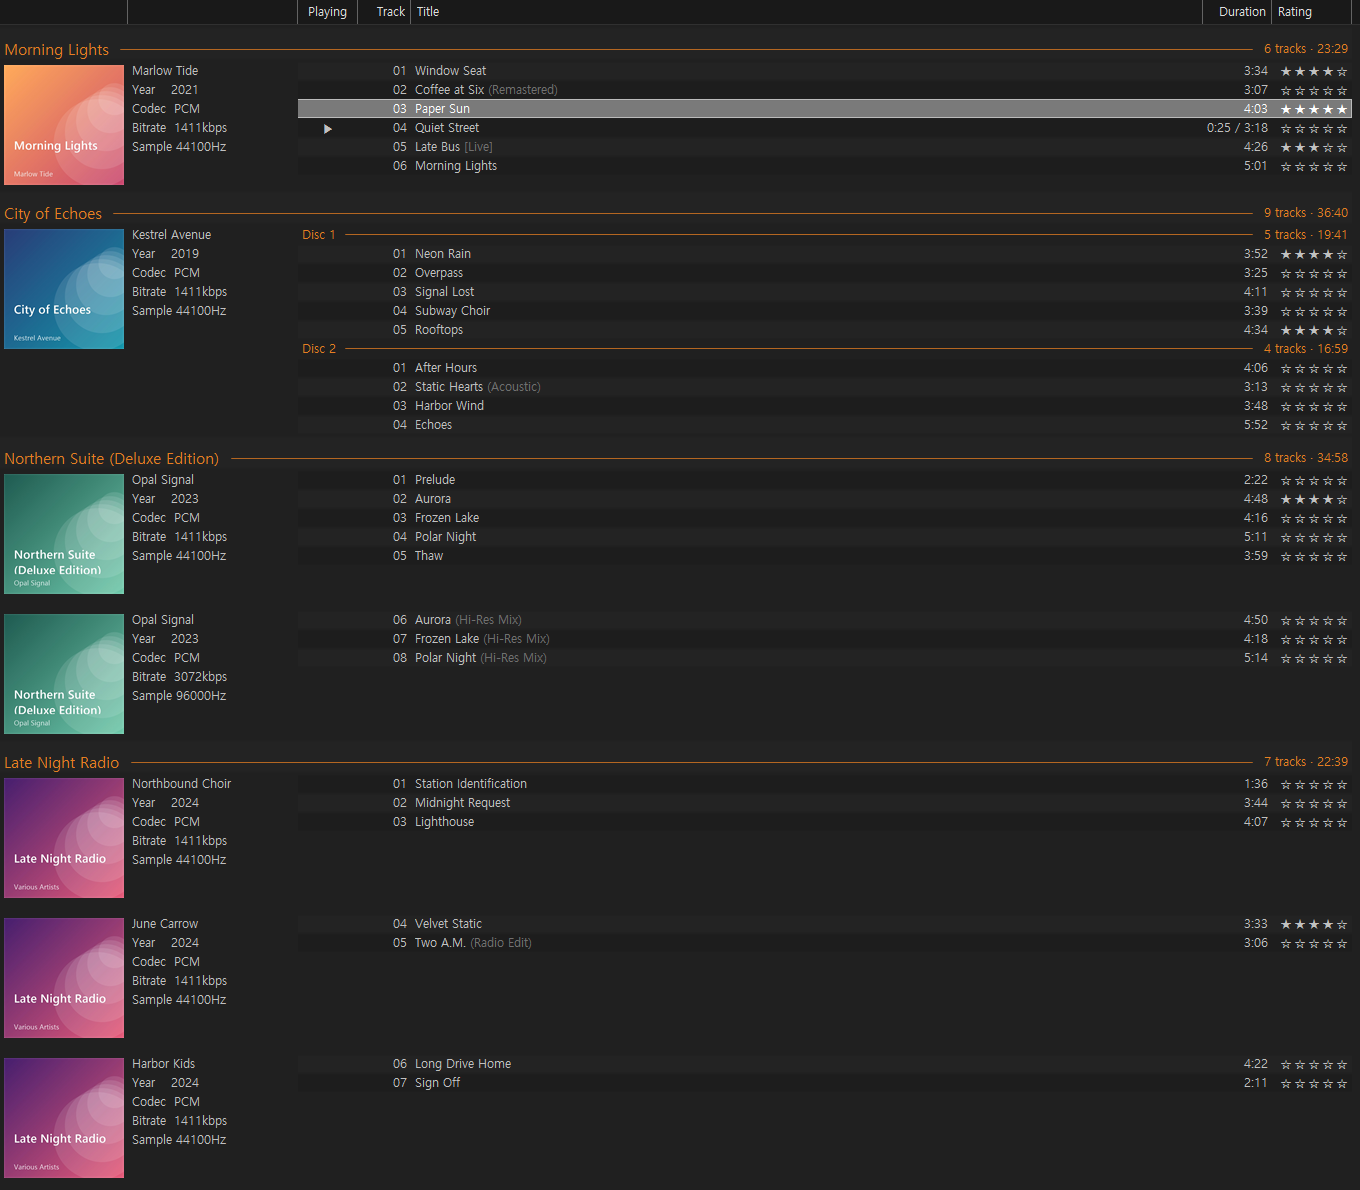
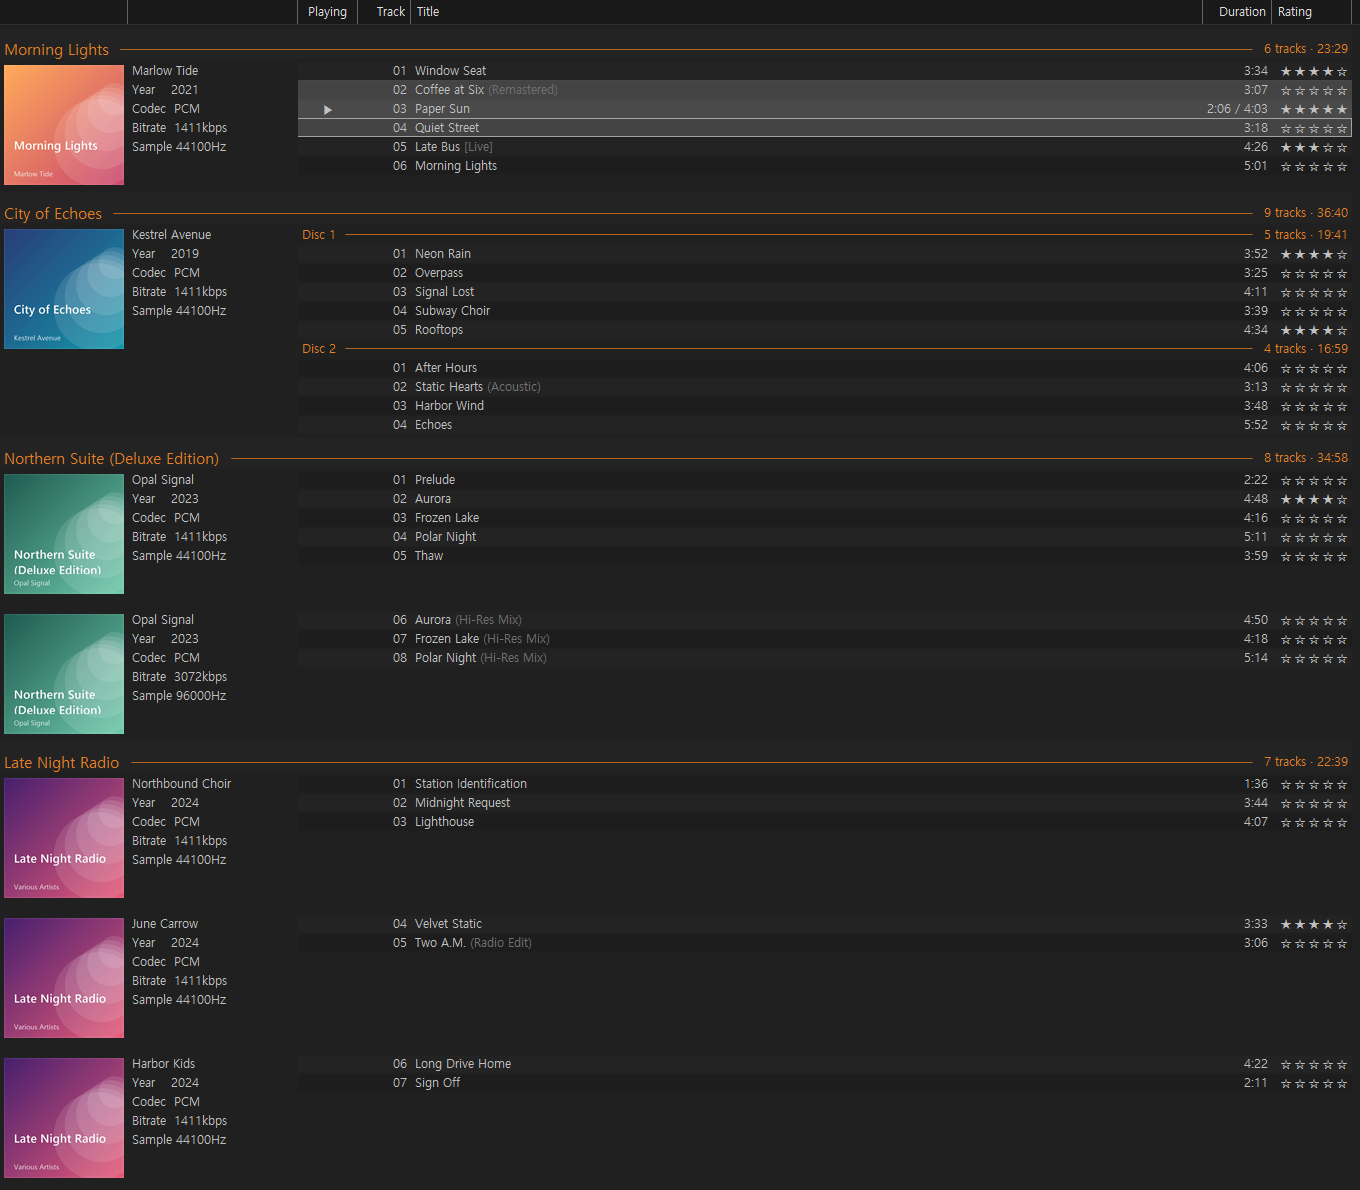
Final screenshots; README: Scrolling page, settings file, drag and sort notes

Changed region(s): [[0.2162, 0.0622, 1.0, 0.1244]]

diff --git a/components/foo_groupplaylist/README.md b/components/foo_groupplaylist/README.md
@@ -13,7 +13,9 @@ GroupPlaylist is a 64-bit alternative to SimPlaylist. It is a new program writte
 - Groups and labels made from title formatting patterns, with ready-made presets (Album, Album + Disc, Artist / Cover / Album and others), or no grouping at all
 - 22 built-in columns plus your own columns
 - Star ratings you click, kept in the file tags or in Playback Statistics
+- Smooth scrolling that glides like a flicked list, with presets you can fine-tune
 - Follows the Default UI colours, fonts and dark mode
+- Settings export and import, for a backup or another computer
 - English and Korean
 
 ## Screenshots
@@ -25,6 +27,10 @@ GroupPlaylist is a 64-bit alternative to SimPlaylist. It is a new program writte
 | Panel menu (right-click a column title) | Preferences > Tools > GroupPlaylist |
 |---|---|
 | ![Panel menu with the Groups submenu](screenshots/header-menu.png) | ![Settings page](screenshots/settings.png) |
+
+| Preferences > Tools > GroupPlaylist > Scrolling |
+|---|
+| ![Scrolling page: presets and the five numbers of the glide](screenshots/scrolling.png) |
 
 The albums in the screenshots are made up: `tools\make-screenshot-tracks.ps1` writes them.
 
@@ -69,8 +75,8 @@ Other things you can do in the panel:
 - Click an album cover to select the tracks under it. Double-click it to play them.
 - Right-click an album cover to reload its art or open its folder.
 - Double-click a group header to play the group.
-- Drag a group header or a disc label to move the whole group or disc.
-- Click a column title to sort the playlist by that column, and click again to reverse. Click the empty title above the covers to return to the preset's order. **Edit > Undo** (Ctrl+Z) undoes a sort.
+- Drag a group header or a disc label to move the whole group or disc. A group goes only between groups, a disc only between discs.
+- Click a column title to sort the playlist by that column, and click again to reverse. Click the empty title above the covers, or pick a preset under **Groups** right after such a sort, to return to the preset's order. **Edit > Undo** (Ctrl+Z) undoes a sort.
 - Hold **Ctrl** and turn the mouse wheel to make the album art larger or smaller.
 - On the playing track, click the **Duration** cell to switch between the time played and the time left.
 
